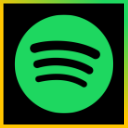
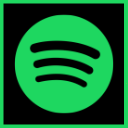
Change storage into local, update spotify image

Changed region(s): [[0.0, 0.0, 1.0, 1.0]]

diff --git a/src/content_scripts/ug.js b/src/content_scripts/ug.js
@@ -14,7 +14,7 @@ const code        = url_params.get("code");
 const reset_token = url_params.get("reset_token");
 
 if (reset_token === "true") {
-  chrome.storage.sync.remove(["access_token"], function() {
+  chrome.storage.local.remove(["access_token"], function() {
     $("body").append(`
       <script>
         window.open("https://ultimate-guitar.com", "_self");
@@ -34,7 +34,7 @@ if (code) {
       const obj = JSON.parse(resp);
       console.log(obj);
 
-      chrome.storage.sync.set({access_token: obj.access_token}, function() {
+      chrome.storage.local.set({access_token: obj.access_token}, function() {
         $("body").append(`
           <script>
             window.open("https://ultimate-guitar.com", "_self");
@@ -46,7 +46,7 @@ if (code) {
 }
 
 // Read it using the storage API
-chrome.storage.sync.get(['access_token'], function(items) {
+chrome.storage.local.get(['access_token'], function(items) {
   const token = items['access_token'];
 
   if (token) {
@@ -60,9 +60,7 @@ chrome.storage.sync.get(['access_token'], function(items) {
 
 function showLoginButton() {
   $("body").append(`
-    <img src="https://raw.githubusercontent.com/madya121/ug-spotify-connector/master/icons/icon256.png" onclick="authorizeSpotify()" style="position: fixed; right: 15px; bottom: 15px;">
-      Login To Spotify
-    </img>
+    <img src="https://raw.githubusercontent.com/madya121/ug-spotify-connector/master/icons/spotify128.png" onclick="authorizeSpotify()" style="position: fixed; right: 15px; bottom: 15px; width: 75px;" />
 
     <script>
       function authorizeSpotify() {
@@ -74,9 +72,7 @@ function showLoginButton() {
 
 function showGoToTabButton(token) {
   $("body").append(`
-    <img src="https://raw.githubusercontent.com/madya121/ug-spotify-connector/master/icons/icon128.png" onclick="imFeelingLucky()" style="position: fixed; right: 15px; bottom: 15px; width: 75px;">
-      Go To Tab
-    </img>
+    <img src="https://raw.githubusercontent.com/madya121/ug-spotify-connector/master/icons/icon128.png" onclick="imFeelingLucky()" style="position: fixed; right: 15px; bottom: 15px; width: 75px;" />
   `);
 
   $("body").append(`
